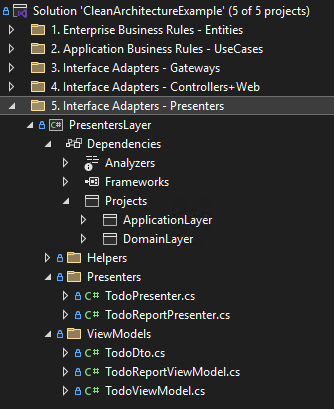
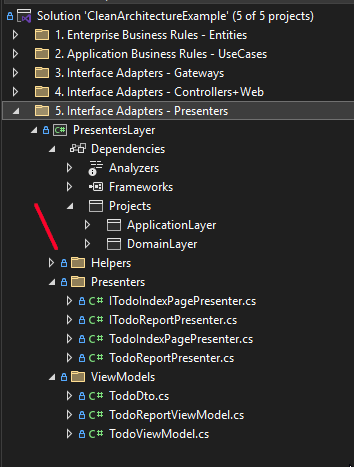
update article

Changed region(s): [[0.0, 0.0, 1.0, 0.9682], [0.988, 0.9976, 1.0, 1.0], [0.0898, 0.4401, 0.1198, 0.4694]]

diff --git a/docs/dev/design-principles/architecture-styles/clean-arhitecture/clean-arhitecture.md b/docs/dev/design-principles/architecture-styles/clean-arhitecture/clean-arhitecture.md
@@ -224,7 +224,7 @@ The outermost layer is generally composed of frameworks and tools, such as the D
 
 **Request from the UI**: A user interacts with the user interface, triggering a request. This could be anything, like clicking a button or submitting a form.   
 
-**Controller**: The request is received by a controller in the `Presentation layer`. The controller's job is to translate the request into a format that the `Use Case` layer can understand. It doesn't contain any business logic itself.   
+**Controller**: The request is received by a controller in the `Controllers layer`. The controller's job is to translate the request into a format that the `Use Case` layer can understand. It doesn't contain any business logic itself.   
 
 **Use Case**: The controller calls a specific `Use Case` in the `Application layer`. This `Use Case` encapsulates the business logic for that particular request. It orchestrates the necessary actions, potentially interacting with entities in the `Domain layer`.   
 
@@ -234,13 +234,18 @@ The outermost layer is generally composed of frameworks and tools, such as the D
 
 **Presenter**: Once the `Use Case` has completed its work, it passes the *results*(data) to a `Presenter` in the `Presentation layer`. The `Presenter's` job is to **format the data** in a way that the UI can understand.   
 
-**UI Update**: The `Presenter` updates the UI with the results of the Use Case.
+**UI Update**: The `Presenter` updates the UI with the results of the `Use Case`.
 
-![clean arhitecture control flow](images/clean_arhitecture_control_flow.drawio.png)
+Clean arhitecture control flow UML diagram:
+![Clean arhitecture control flow UML diagram](images/CleanArhitecture_ControlFlow_UML.drawio.png)
+
+* Open arrowheads are using relationships. 
+* Closed arrowheads are implements or inheritance relationships
 
 **Presenters, gateways, and controllers are just plugins to the application.**
 
-![Clean arhitecture control flow UML diagram](images/CleanArhitecture_ControlFlow_UML.drawio.png)
+Another diagram: 
+![clean arhitecture data flow](images/clean_arhitecture_control_flow.drawio.png)
 
 ### Code Example
 
@@ -252,35 +257,76 @@ The outermost layer is generally composed of frameworks and tools, such as the D
 ##### Domain Layer
 ![Domain Layer](images/code-example/DomainLayer.png)
 
-The domain layer contains entities (models like the Todo model) that encapsulate enterprise business rules.<br>
-This layer also includes input/output port interfaces.<br>
-Domain layer library doesn't have any dependecies to the libraries from other libraries in this project.<br>
+The domain layer contains `entities` (models like the Todo model) that encapsulate enterprise business rules.
+
+```csharp
+    public class Todo
+    {
+        public Todo() { }
+
+        public Todo(string title)
+        {
+            Id = Guid.NewGuid();
+            Date = DateTime.UtcNow;
+            SetTitle(title);
+        }
+
+        public Guid Id { get; protected set; }
+
+        public string Title { get; protected set; }
+
+        public DateTime Date { get; protected set; }
+
+        public DateTime UpdateDate { get; protected set; }
+
+        public void UpdateTitle(string title)
+        {
+            SetTitle(title);
+        }
+
+        private void SetTitle(string title)
+        {
+            if (string.IsNullOrWhiteSpace(title))
+            {
+                throw new BusinessException("Title cannot be empty");
+            }
+
+            if (title.Length > 100)
+            {
+                throw new BusinessException("Title cannot be longer than 100 characters");
+            }
+
+            Title = title;
+        }
+    }
+```
+
 The domain layer library has no dependencies on other libraries in this project.
+This layer can also contain interfaces that can be reused by other outer layers.
 
 ##### Application Layer
 
 ![Application Layer](images/code-example/ApplicationLayer.png)
 
-The application layer contains use case interactors.<br>
-The TodoService interactor calls methods from input/output port plugins.
+The application layer contains use case interactors, that calls methods from input/output port plugins.<br>
+The `TodoService` interactor implement `Input Port` interface `ITodoService` and use `Ouput Port interfaces`: `ITodoPresenter`, `ITodoContext`.
 
-The interactor specifies not only **how** the UI is updated and **what** data is saved or provided to the UI, but also **when** the data will be available.
+This layer is unaware of which database is used or how data is presented in the View. It mainly contains command methods that modify Entities and query methods that list Entities.
 
-The application layer has a dependency on the domain layer.
+The application layer has a dependency only on the `inner` domain layer.
 
 ```csharp
-public class TodoService(ITodoContext todoContext, ITodoPresenter todoPresenter, ITodoReportPresenter todoReportPresenter) : ITodoService
+namespace ApplicationLayer.Interactors;
+
+public class TodoService(ITodoContext todoContext) : ITodoService
 {
-    public async Task<(ITodoPresenter, ITodoReportPresenter)> ShowTodosQueue()
+    public async Task PrintTodosQuery(ITodoPresenter todoPresenter)
     {
         var todo = await todoContext.Todo.AsNoTracking().OrderByDescending(todo => todo.Date).ToListAsync();
 
         var todosResponseModel = new TodosResponseModel(todo);
 
         todoPresenter.SetTodos(todosResponseModel);
-        todoReportPresenter.SetTodos(todosResponseModel);
-
-        return (todoPresenter, todoReportPresenter);
     }
 
     public async Task CreateTodoCommand(string title)
@@ -291,9 +337,68 @@ public class TodoService(ITodoContext todoContext, ITodoPresenter todoPresenter,
 
         await todoContext.SaveChangesAsync();
     }
-    ...
+
+    //...
+
+    public async Task DeleteTodoCommand(Guid id)
+    {
+        if (id == Guid.Empty)
+        {
+            throw new ArgumentException("Invalid id");
+        }
+
+        var todo = await TryGetTodoById(id) ?? throw new InvalidOperationException("Todo not found");
+
+        todoContext.Todo.Remove(todo);
+
+        await todoContext.SaveChangesAsync();
+    }
+
+    //...
 }
 ```
+
+This layer also includes input/output port interfaces.
+
+##### Input Port interfaces:
+```csharp
+namespace DomainLayer.SeedCore.InputPorts;
+
+public interface ITodoService
+{
+    Task PrintTodosQuery(ITodoPresenter todoPresenter);
+
+    Task CreateTodoCommand(string title);
+
+    Task DeleteTodoCommand(Guid id);
+
+    Task UpdateTodoTitleCommand(UpdateTodoTitleRequestModel updateTodoTitleRequestModel);
+}
+```
+The `input port` takes `RequestModel` as a parameter, which is data received from the User and handled by the interactor.
+
+##### Output Port interfaces:
+```csharp
+namespace DomainLayer.SeedCore.OutputPorts.Presenters;
+
+public interface ITodoPresenter
+{
+    void SetTodos(TodosResponseModel todosResponseModel);
+}
+```
+```csharp
+namespace ApplicationLayer.OutputPorts.Gateways;
+
+public interface ITodoContext
+{
+    DbSet<Todo> Todo { get; set; }
+
+    Task SaveChangesAsync();
+
+    bool DatabaseEnsureCreated();
+}
+```
+The `output port` takes `ResponseModel` as a parameter, which is then used to either `save` `Entities`, `query` `Entities`, or `display` `Entities` on the output terminal/source.
 
 ##### Infrastructure Layer
 
@@ -301,7 +406,7 @@ public class TodoService(ITodoContext todoContext, ITodoPresenter todoPresenter,
 
 The infrastructure layer contains gateways to interact with external resources, such as databases and services.
 
-The infrastructure layer has a dependency on the domain layer.
+The infrastructure layer has a `dependency` on the inner layers: `domain layer` and `application layer`.
 
 ```csharp
 public class TodoContext : DbContext, ITodoContext
@@ -323,37 +428,66 @@ public class TodoContext : DbContext, ITodoContext
 
 The presentation layer consists of `Presenters` that implement `Output Port` interfaces and adapt `Response Models` to `View models`, which are then passed or bound to the View.<br>
 
-The infrastructure layer has a dependency on the domain and application layers.
+The presentation layer has a `dependency` on the inner layers: `domain layer` and `application layer`.
 
+TodoIndexPagePresenter: 
 ```csharp
-public class TodoPresenter : ITodoPresenter
+public class TodoIndexPagePresenter : ITodoIndexPagePresenter
 {
-    private TodosResponseModel? todosResponseModel;
+    private TodosResponseModel todosResponseModel;
 
     public void SetTodos(TodosResponseModel todosResponseModel)
     {
+        ArgumentNullException.ThrowIfNull(todosResponseModel, nameof(todosResponseModel));
+
         this.todosResponseModel = todosResponseModel;
     }
 
-    public TodoViewModel TodoViewModel()
+    public TodoViewModel GetViewModel()
     {
-        if (todosResponseModel is null)
-        {
-            return new TodoViewModel
-            {
-                Title = string.Empty,
-                Todos = []
-            };
-        }
-
         return new TodoViewModel
         {
             Title = string.Empty,
             Todos = [.. todosResponseModel.Todos.Select(todo => new TodoDto(
                 todo.Id,
-                todo.Title.FirstCharToUpper(),
-                todo.Date.ToString("yyyy-MM-dd.hh:mm")))]
+                todo.Title,
+                todo.Date.ToString("yyyy-MM-dd")))]
         };
+    }
+}
+```
+TodoReportPresenter:
+```csharp
+public class TodoReportPresenter : ITodoReportPresenter
+{
+    private TodosResponseModel todosResponseModel;
+
+    public void SetTodos(TodosResponseModel todosResponseModel)
+    {
+        ArgumentNullException.ThrowIfNull(todosResponseModel, nameof(todosResponseModel));
+
+        this.todosResponseModel = todosResponseModel;
+    }
+
+    public string GetReport()
+    {
+        if (todosResponseModel.Todos.Count == 0)
+        {
+            return $"""
+                    There are no todos.
+                    Date: {DateTime.Now:yyyy - MM - dd.hh:mm}
+                    """;
+        }
+
+        return $"""
+                There are {todosResponseModel.Todos.Count} todos.
+                Date: {DateTime.Now:yyyy - MM - dd.hh:mm}
+
+                Todos: 
+                {string.Join(Environment.NewLine,
+                    todosResponseModel.Todos
+                        .Select(todo => $"{todo.Date:yyyyy - MM - dd.hh:mm}: {todo.Title}"))}
+                """;
     }
 }
 ```
@@ -362,15 +496,18 @@ public class TodoPresenter : ITodoPresenter
 
 ![Controllers Layer](images/code-example/ControllersLayer.png)
 
-This layer contains the main application code that starts and configures the application, and includes controllers that handle HTTP requests. Ideally, the controllers layer should be separated into a distinct library, but for simplicity, this is omitted.
+In the current application, this layer contains the Controllers layer and the main application code that starts and configures the application.
 
-Because this application doesn't use web sockets or polling to bind view models to the view, and returns an HTML page in the same request/response, the controllers layer has a dependency on the `presentation layer` library, slightly violating `Clean Architecture`.
+Ideally, the `controllers layer` should be separated into a `distinct library`, for simplicity, this is omitted.
 
-Here the controller calls the application layer to execute application logic, then calls a presenter to generate a view model, and passes it to the Razor Engine, which converts it to an HTML page. 
+The `controllers layer` has a `dependency` only on the inner layers: `domain layer` and `application layer`.
+But main application code has dependency on all layers.
 
+The controller calls the application layer to execute application logic, then calls a presenter to generate a view model, and passes it to the Razor Engine, which converts it to an HTML page. 
 
+TodoController:
 ```csharp
-public class TodoController(ITodoService todoService) : Controller
+public class TodoController(ITodoService todoService, ITodoIndexPagePresenter todoIndexPagePresenter) : Controller
 {
     public async Task<IActionResult> Index()
     {
@@ -395,25 +532,28 @@ public class TodoController(ITodoService todoService) : Controller
 
     private async Task<IActionResult> ShowIndexView()
     {
-        var todoPresenter = await GetTodoPresenter(todoService);
+        await todoService.PrintTodosQuery(todoIndexPagePresenter);
 
-        var viewModel = todoPresenter.TodoViewModel();
+        var viewModel = todoIndexPagePresenter.GetViewModel();
 
         return View("Index", viewModel);
-    }
-
-    private static async Task<TodoPresenter> GetTodoPresenter(ITodoService todoService)
-    {
-        var presenters = await todoService.ShowTodosQueue();
-
-        if (presenters.TodoPresenter is not TodoPresenter todoPresenter)
-        {
-            throw new InvalidOperationException("Invalid presenter");
-        }
-
-        return todoPresenter;
     }
 }
 ``` 
 
+TodoReportController:
+```csharp
+public class TodoReportController(ITodoService todoService, ITodoReportPresenter todoReportPresenter) : Controller
+{
+    [HttpPost]
+    public async Task<IActionResult> Index()
+    {
+        await todoService.PrintTodosQuery(todoReportPresenter);
 
+        var report = todoReportPresenter.GetReport();
+
+        return File(Encoding.Unicode.GetBytes(report), "text/plain", "TodosReport.txt");
+    }
+}
+```
+The `TodoReportController` calls the use case interactor `ITodoService` with an `ITodoReportPresenter`, which, instead of generating a `view model`, prints a string containing a report. Afterward, the `TodoReportController` uploads a file containing the report to the user.
